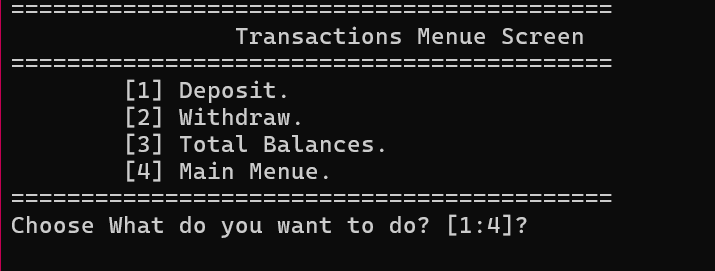
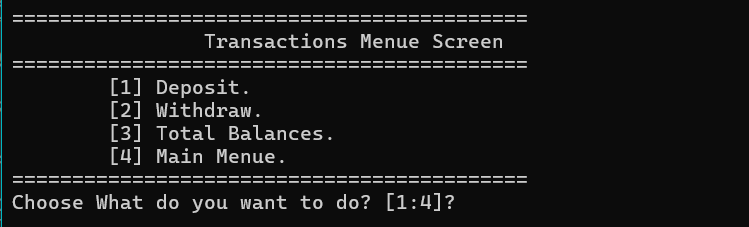
Modify README file

Changed region(s): [[0.0, 0.0, 0.8615, 0.9251]]

diff --git a/README.md b/README.md
@@ -1,68 +1,113 @@
 # Bank Management System (C++)
 
-A robust console-based application built with **C++** to manage bank clients and transactions. This project demonstrates core programming concepts such as File Handling, Data Structures (Vectors), Enums, and Structs.
+A modular console-based **Bank Management System** developed in **C++**.
 
-##  Features
-- **Client Management:** Add, Delete, Update, and Find clients.
-- **Transaction Module:** Deposit and Withdraw operations with balance validation.
-- **Data Persistence:** All data is saved and loaded from a text file (`Clients.txt`).
-- **Input Validation:** Handles incorrect inputs to ensure program stability.
+## Features
 
-## Technical Skills Demonstrated
-- **File Handling:** Reading and writing structured data.
-- **Data Structures:** Efficiently using `std::vector` for memory management.
-- **Clean Code:** Modular functions and clear naming conventions.
-- **Logic Handling:** Implementing a multi-menu system (Main Menu & Transactions).
+### Authentication
+- User Login System.
+- Username & Password verification.
 
-## Visual Tour
+### User Management
+- Add new users.
+- Delete users.
+- Update user information.
+- Find users.
+- Permission management.
 
-Here is a step-by-step look at the application's interface:
+### Client Management
+- Add new clients.
+- Update client information.
+- Delete clients.
+- Search for clients.
+- Display all clients.
 
-### 1. Main Menu Screen
-This is the central hub of the application where you choose between client management and transactions.
+### Transactions
+- Deposit.
+- Withdraw.
+- Display total balances.
+- Balance validation.
+- Confirmation before transactions.
+
+### Authorization
+Role-Based Access Control (RBAC) using bitmask permissions:
+- List Clients
+- Add Client
+- Delete Client
+- Update Client
+- Find Client
+- Transactions
+- Manage Users
+- Full Access (Admin)
+
+### Data Storage
+- Client data stored in `Clients.txt`
+- User data stored in `Users.txt`
+- Persistent file-based storage
+
+---
+
+## Technologies Used
+
+- C++
+- File Handling
+- STL (`vector`)
+- Structs
+- Enums
+- Modular Programming
+- Bitmask Permissions
+
+---
+
+## Project Structure
+
+```
+Bank/
+│
+├── Client.cpp / Client.h
+├── User.cpp / User.h
+├── Transaction.cpp / Transaction.h
+├── Utility.cpp / Utility.h
+├── Global.h
+├── Bank.cpp
+├── Clients.txt
+└── Users.txt
+```
+
+---
+
+## Screenshots
+
+### Login
+
+<img src="Images/LoginScreen.png.png" width="600" Alt="Main Menu">
+
+### Main Menu
+
 <img src="Images/MainMenuScreen.png" width="600" Alt="Main Menu">
 
-### 2. Client Management Actions
+### Transactions
 
-#### Adding a New Client
-Seamlessly add new client data to the system.
-<img src="Images/AddNewClientScreen.png" width="600" Alt="Add Client">
+<img src="Images/TransactionMenuScreen.png" width="600" Alt="Main Menu">
 
-#### Viewing Client List
-A clean, formatted table showing all currently registered clients.
-<img src="Images/ClientsListScreen.png" width="600" Alt="Client List">
+### User Management
 
-#### Finding a Client
-Quickly look up a specific client's details using their account number.
-<img src="Images/FindClientScreen.png" width="600" Alt="Find Client">
+<img src="Images/ManageUsersMenuScreen.png" width="600" Alt="Main Menu">
 
-#### Updating Client Info
-Easily modify existing client information.
-<img src="Images/UpdateClientInfoScreen.png" width="600" Alt="Update Client">
-
-#### Deleting a Client
-A secure deletion process with a confirmation step.
-<img src="Images/DeleteClientScreen.png" width="600" Alt="Delete Client">
-
-### 3. Transactions Module
-
-#### Transactions Menu Screen
-Navigate through different financial operations.
-<img src="Images/TransactionMenuScreen.png" width="600" Alt="Transactions Menu">
-
-#### Making a Deposit
-Process deposit transactions with a confirmation prompt.
-<img src="Images/DepositeScreen.png" width="600" Alt="Deposit">
-
-#### Making a Withdraw
-Handle withdrawals with balance check and confirmation.
-<img src="Images/WithdrowScreen.png" width="600" Alt="Withdraw">
-
-### 4. Application Exit Screen
-<img src="Images/ProgramEndScreen.png" width="600" Alt="Exit">
+---
 
 ## How to Run
+
 1. Clone the repository.
-2. Ensure you have a C++ compiler (like GCC or MinGW).
-3. Compile the file: `g++ main.cpp -o BankSystem`
-4. Run the executable: `./BankSystem`
+
+```bash
+git clone https://github.com/your-username/BankSystem.git
+```
+
+2. Open the solution in Visual Studio.
+
+3. Build the project.
+
+4. Run the application.
+
+---